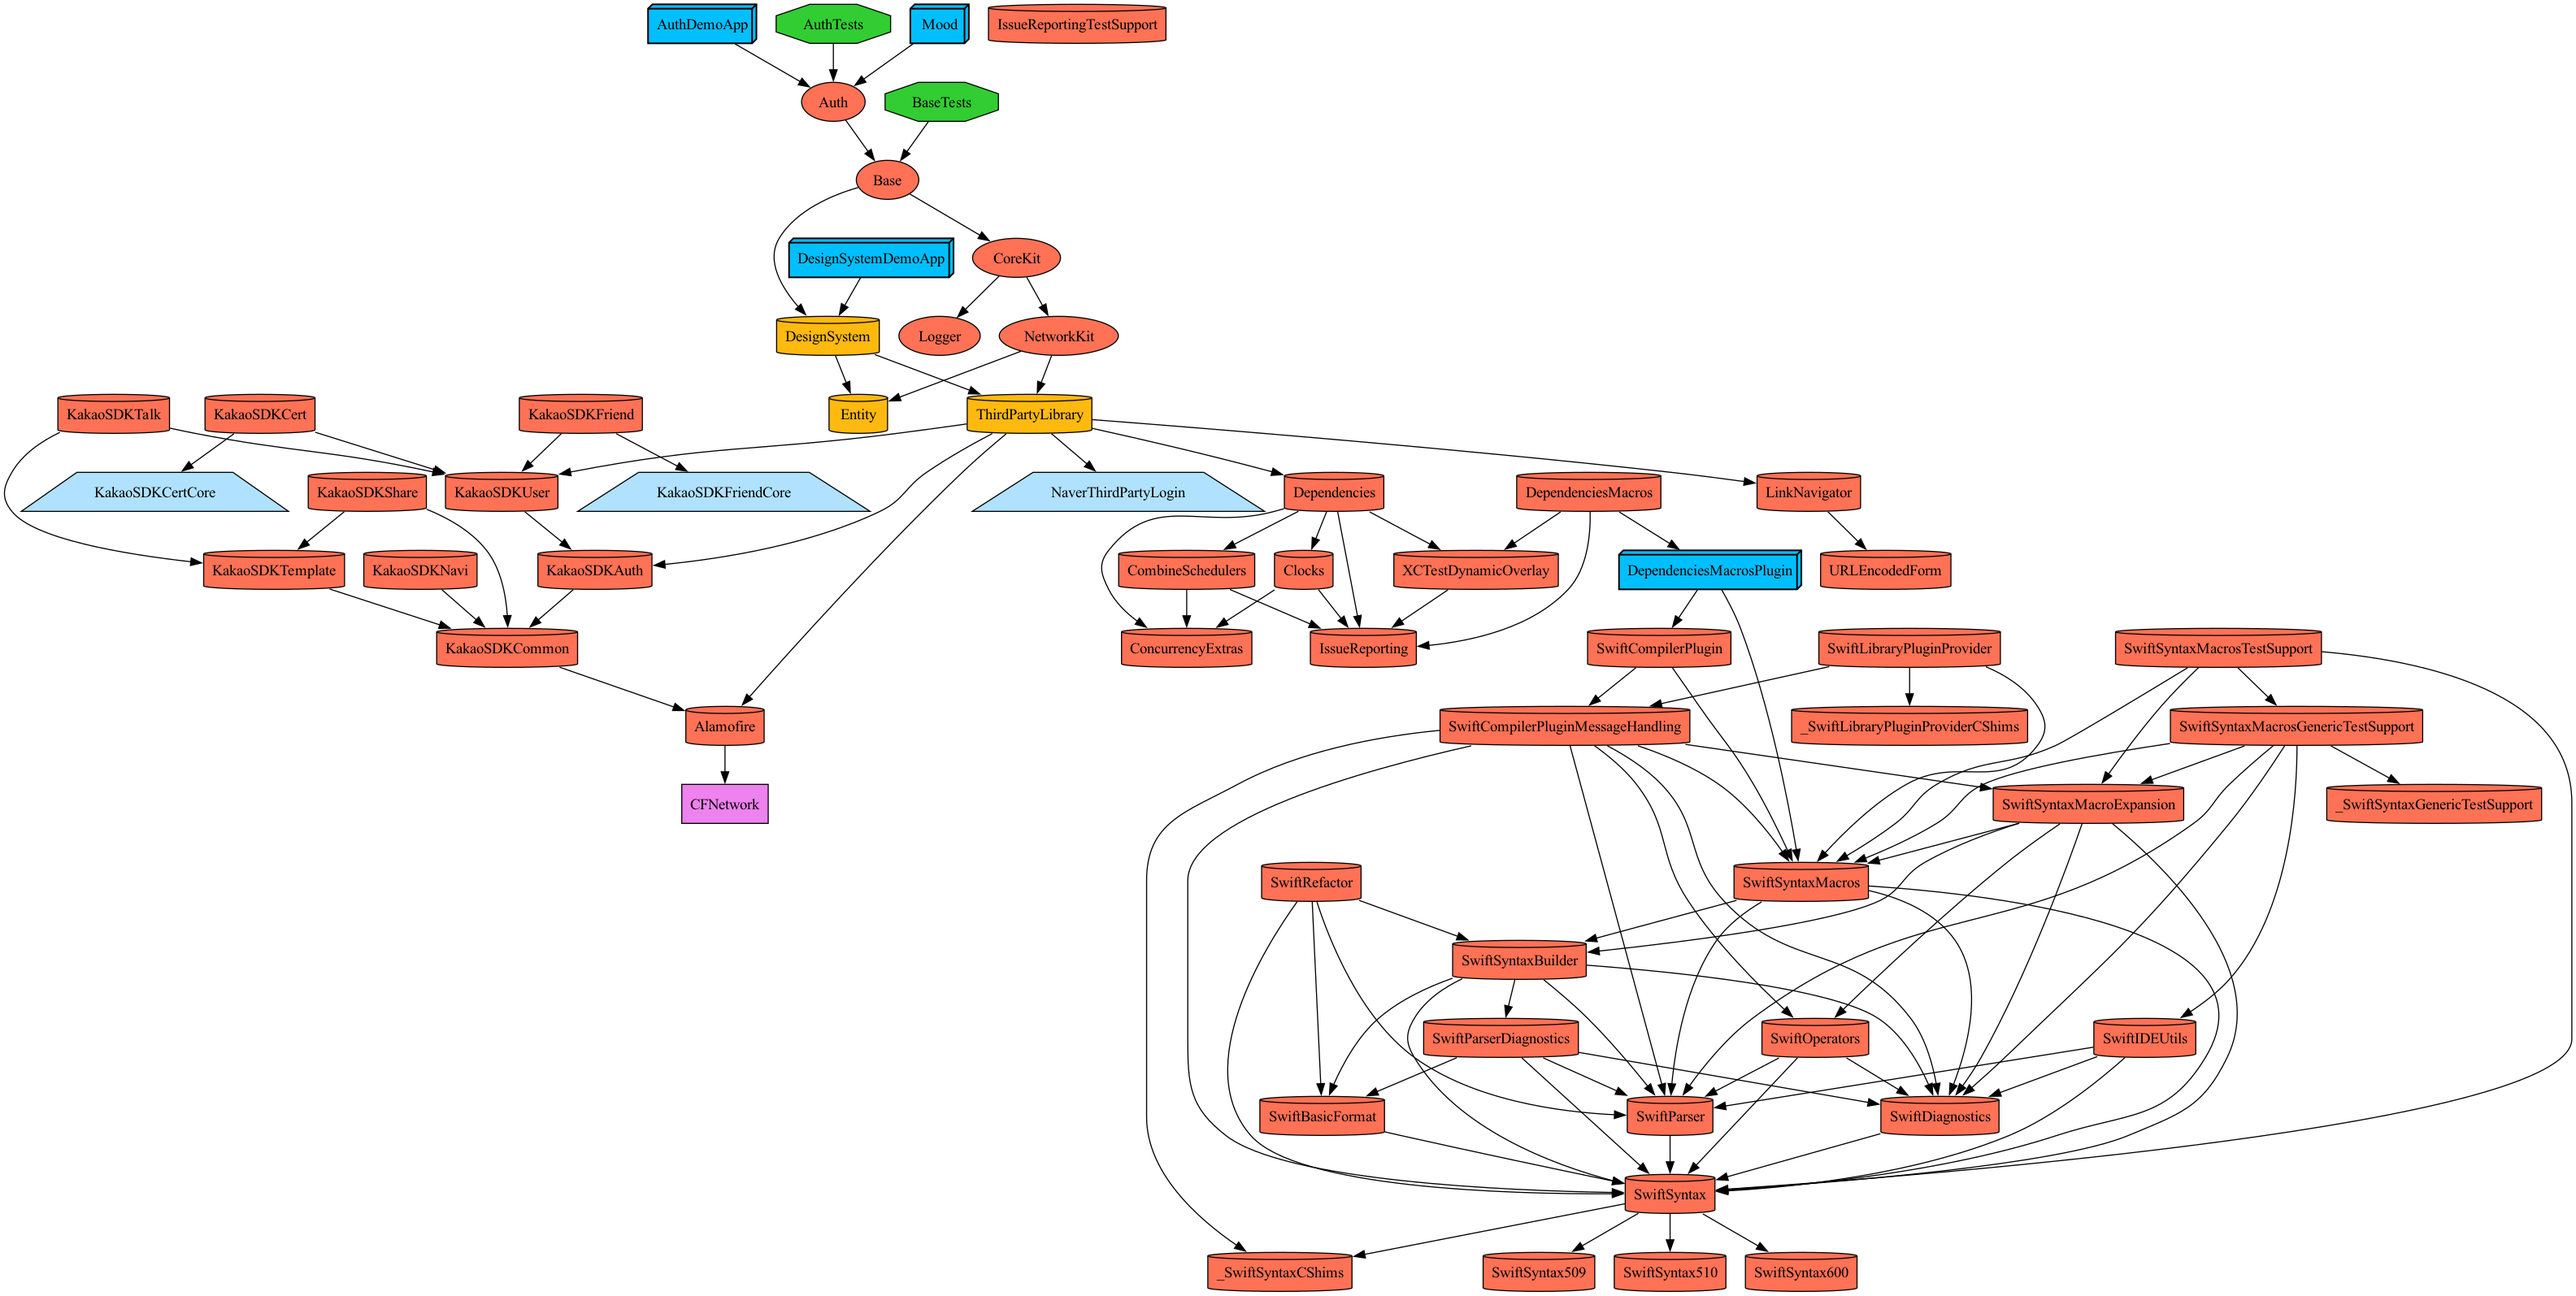
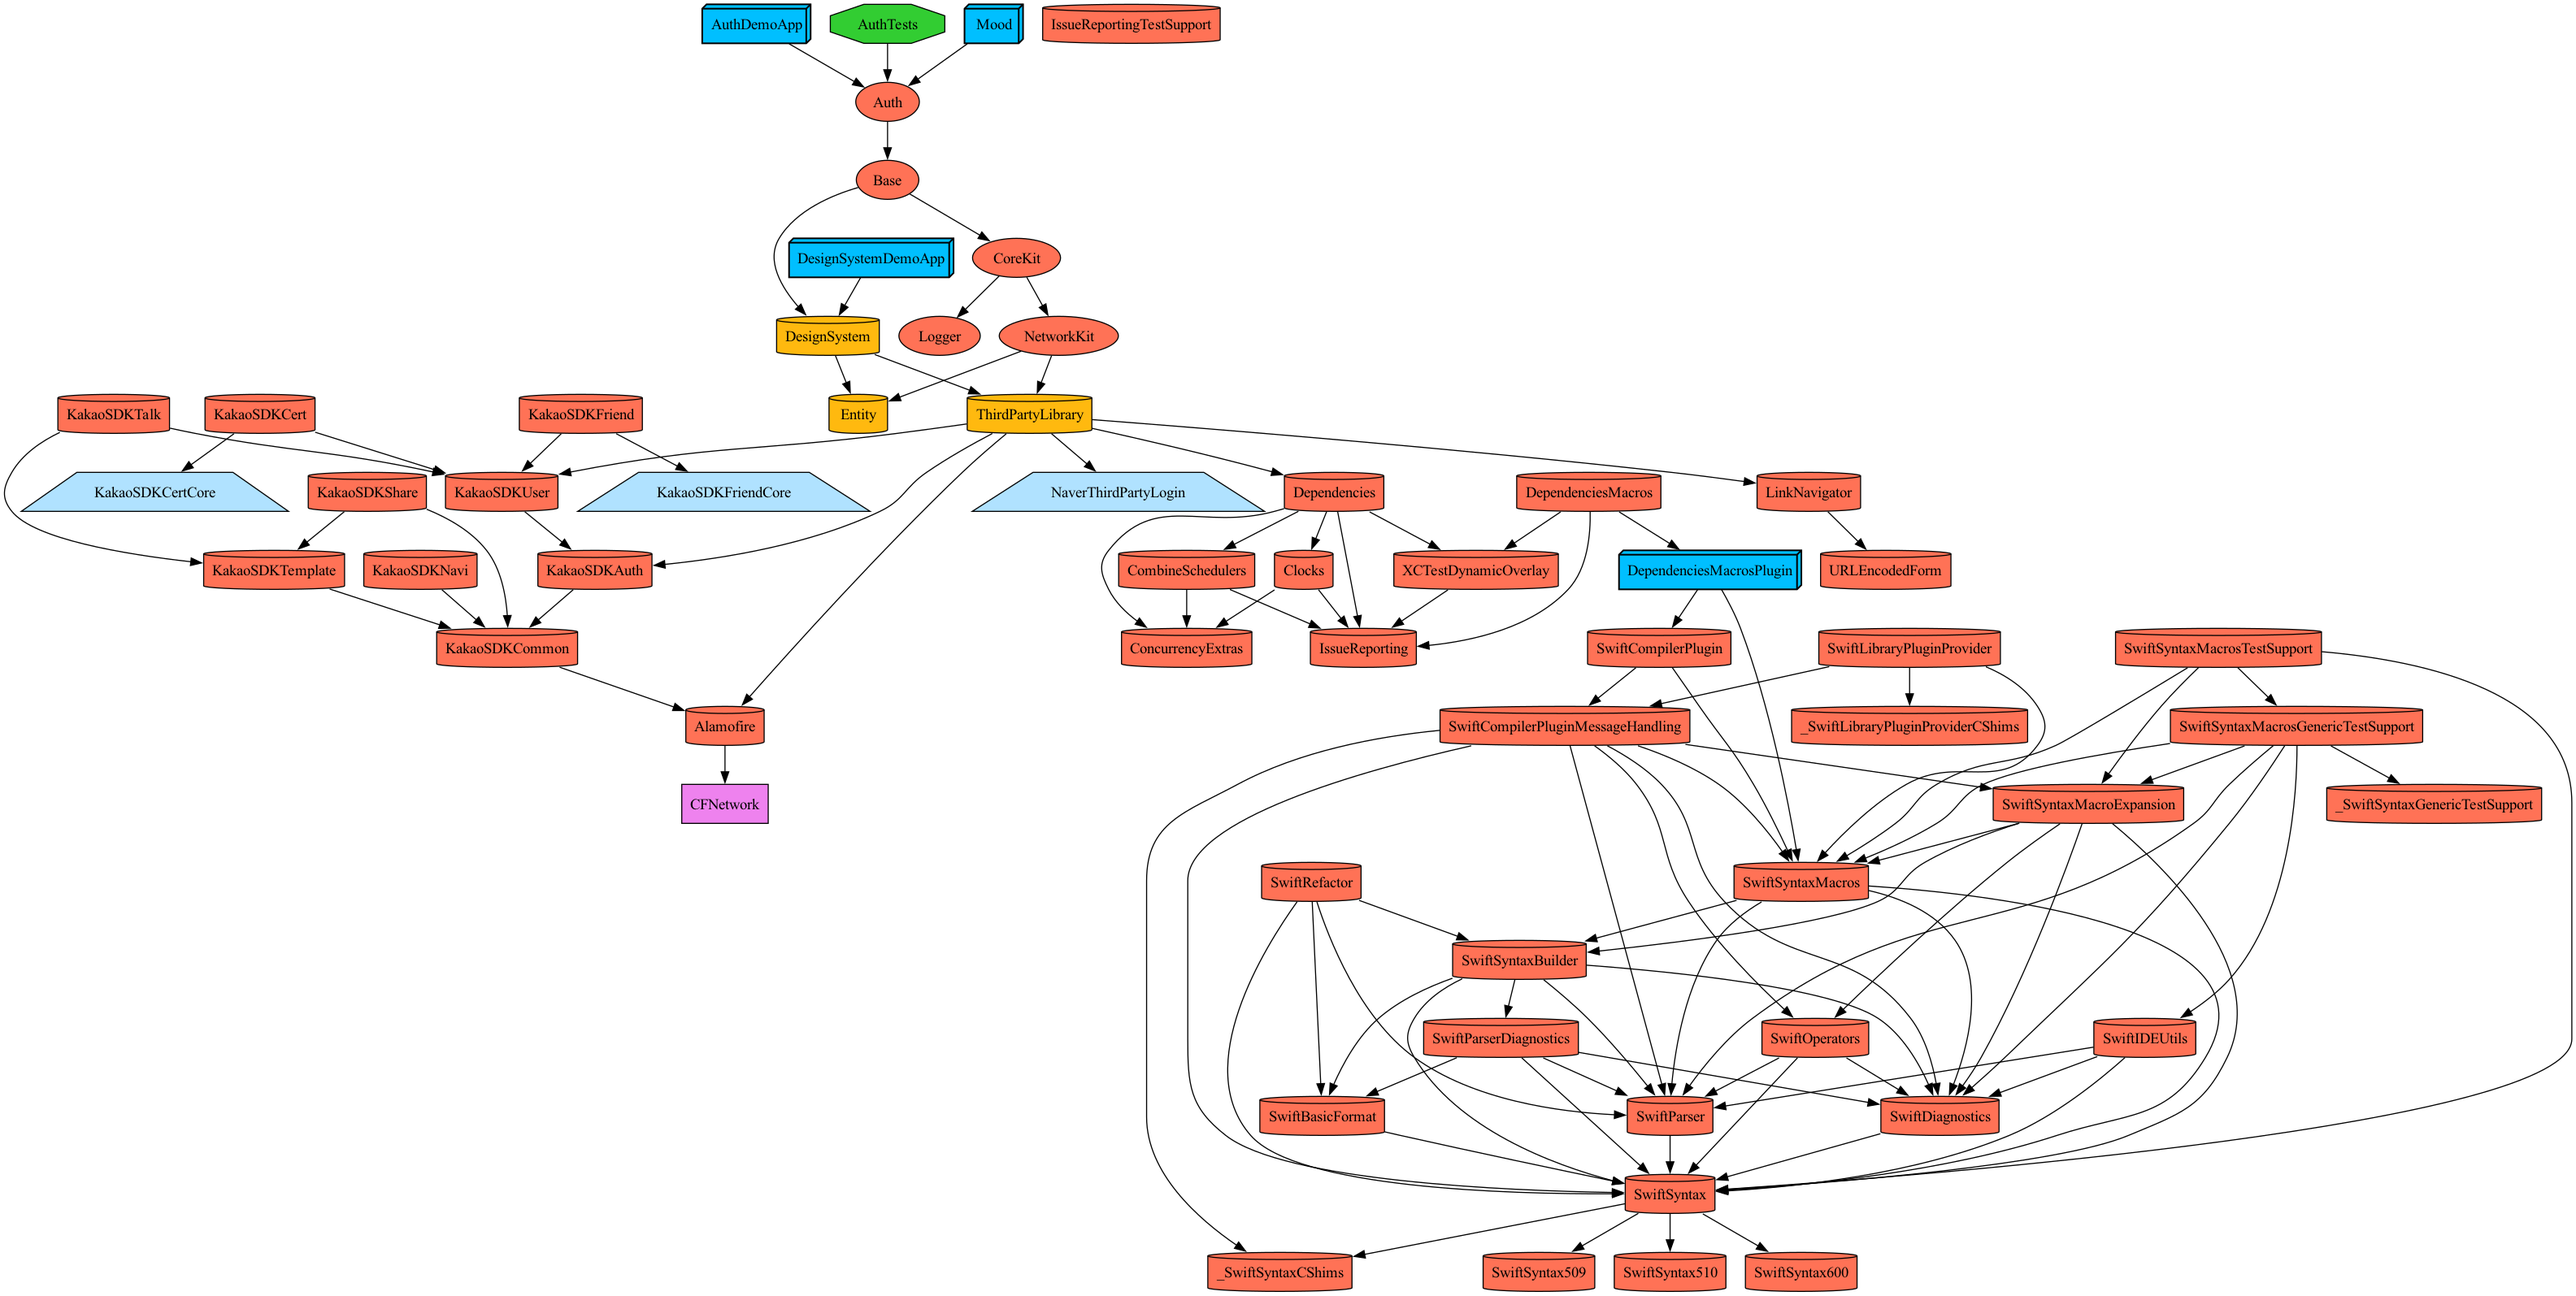
remove Base Test module

Changed region(s): [[0.2499, 0.0, 0.4998, 0.1229]]

diff --git a/Projects/Feature/Base/Project.swift b/Projects/Feature/Base/Project.swift
@@ -12,5 +12,5 @@ let project = Project.makeModule(
         .design(module: .DesignSystem),
     ],
     settings: .base("Base"),
-    hasTest: true
+    hasTest: false
 )
